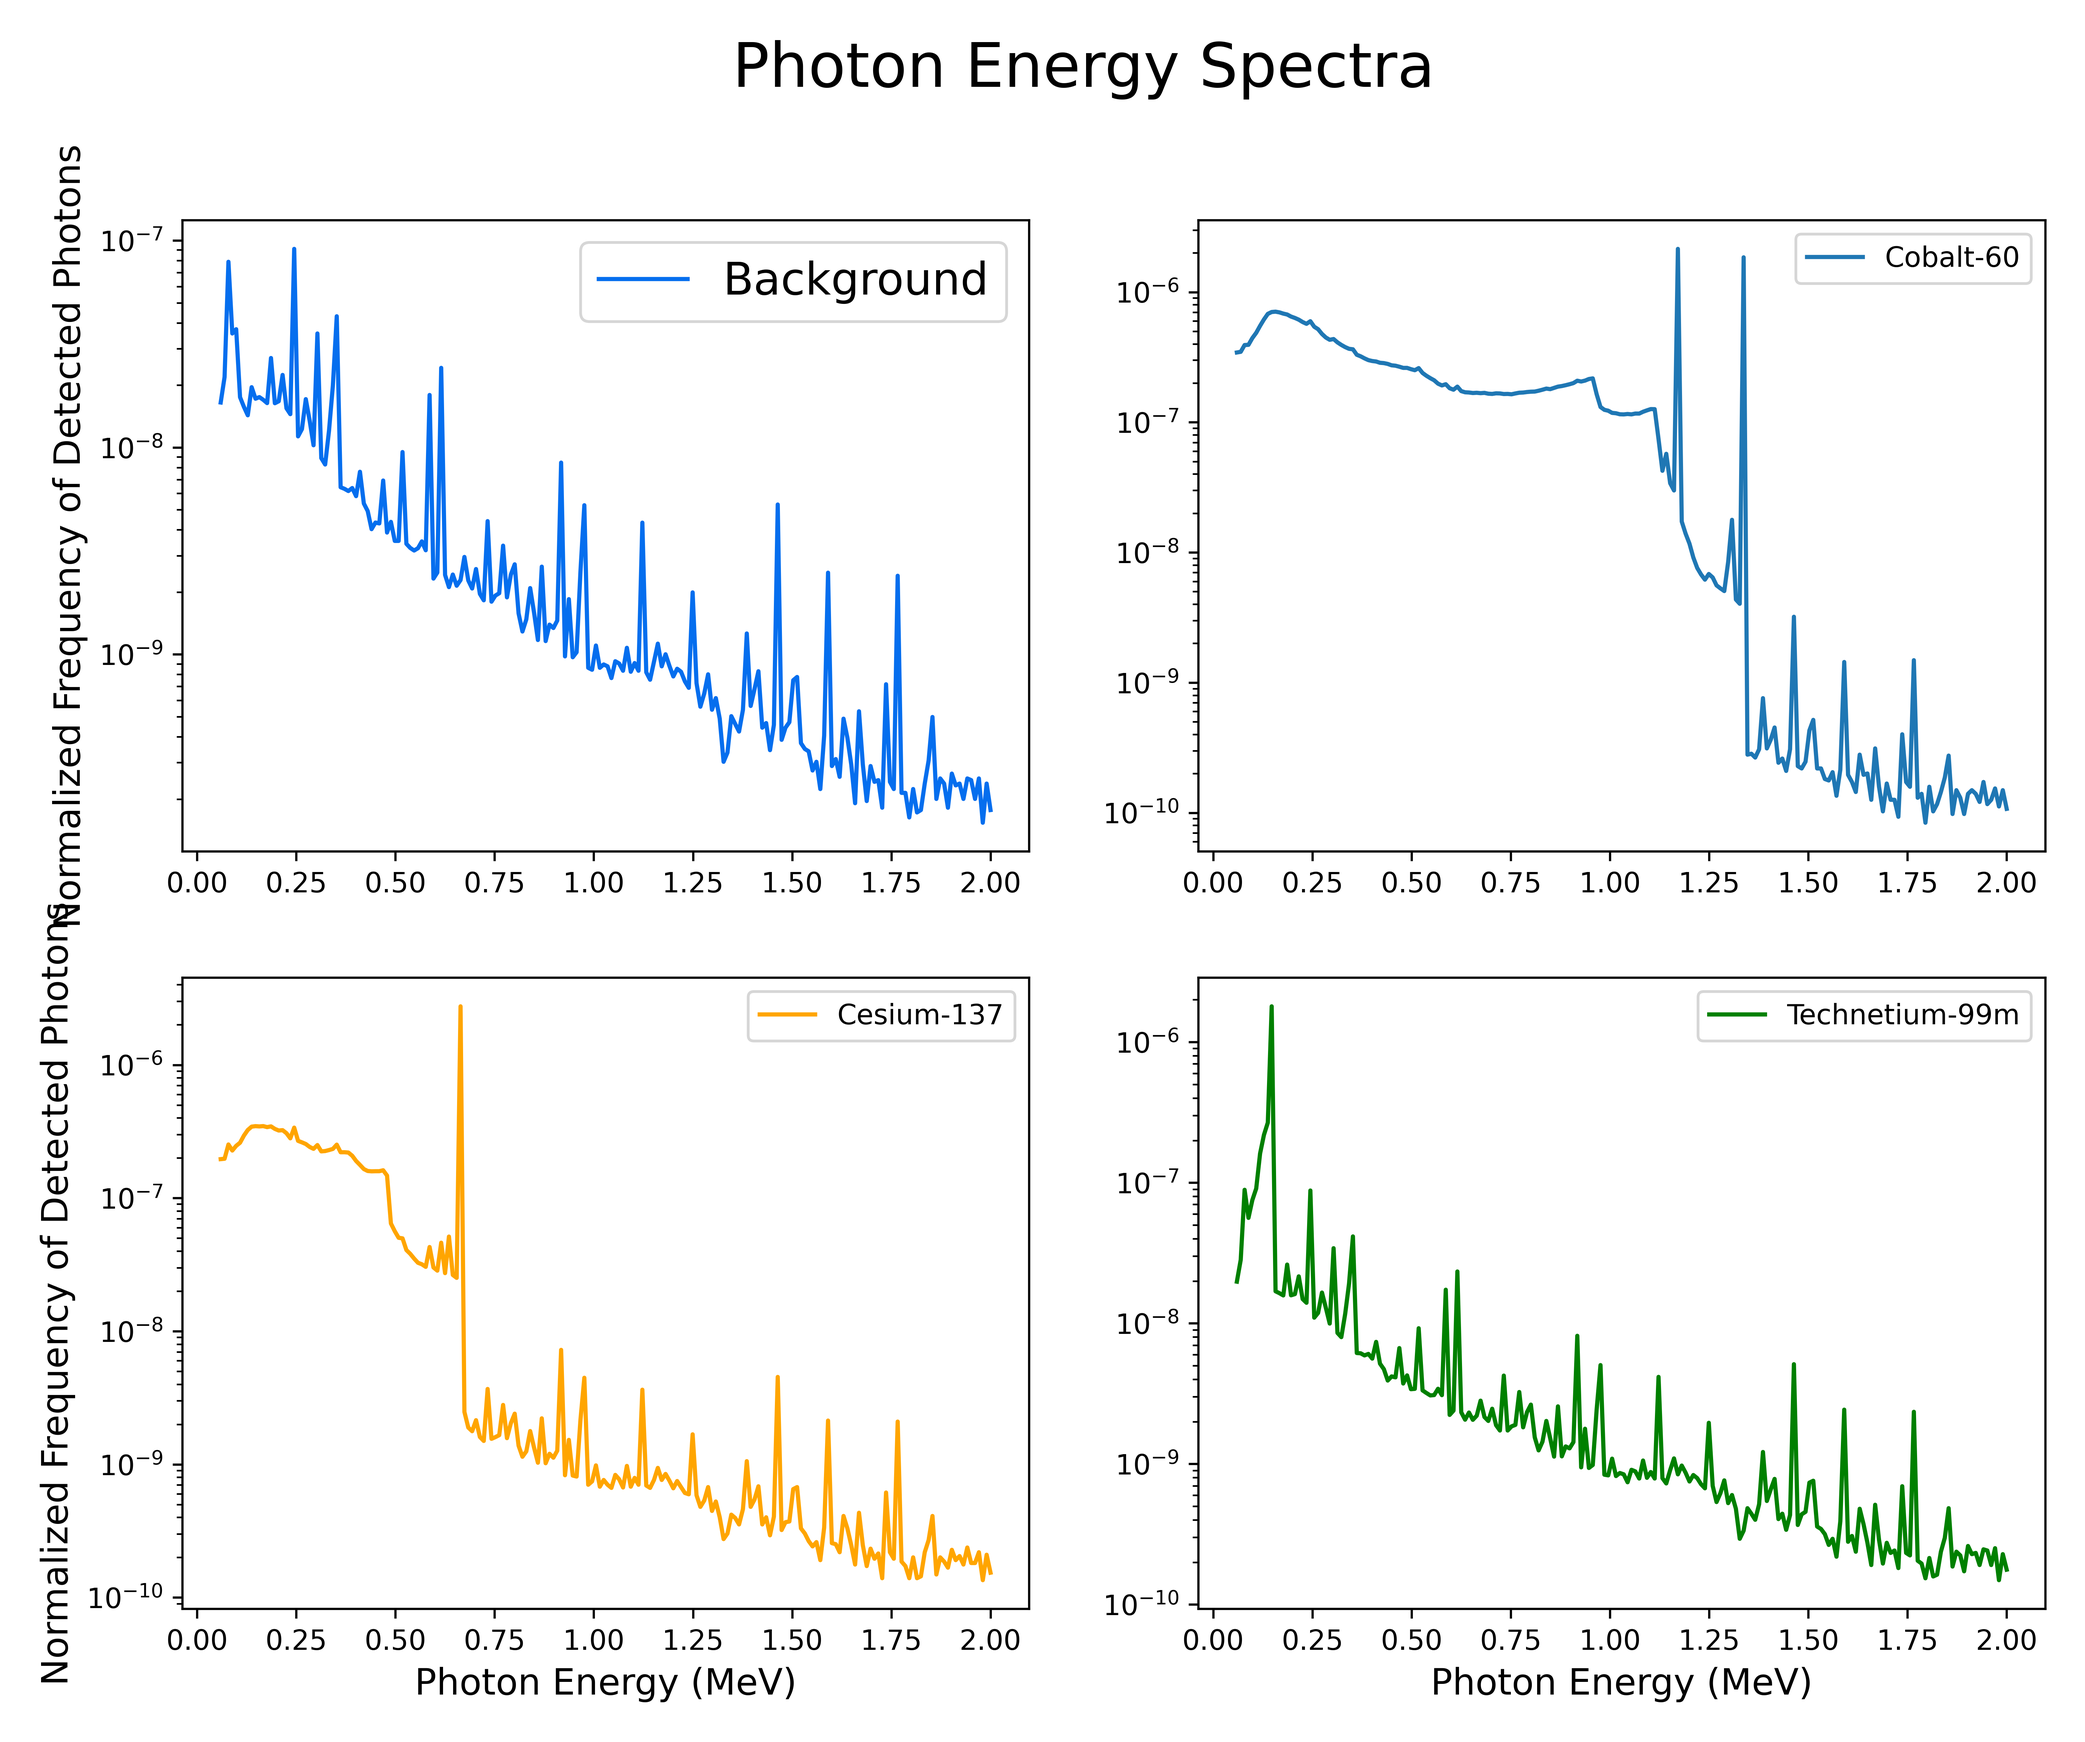
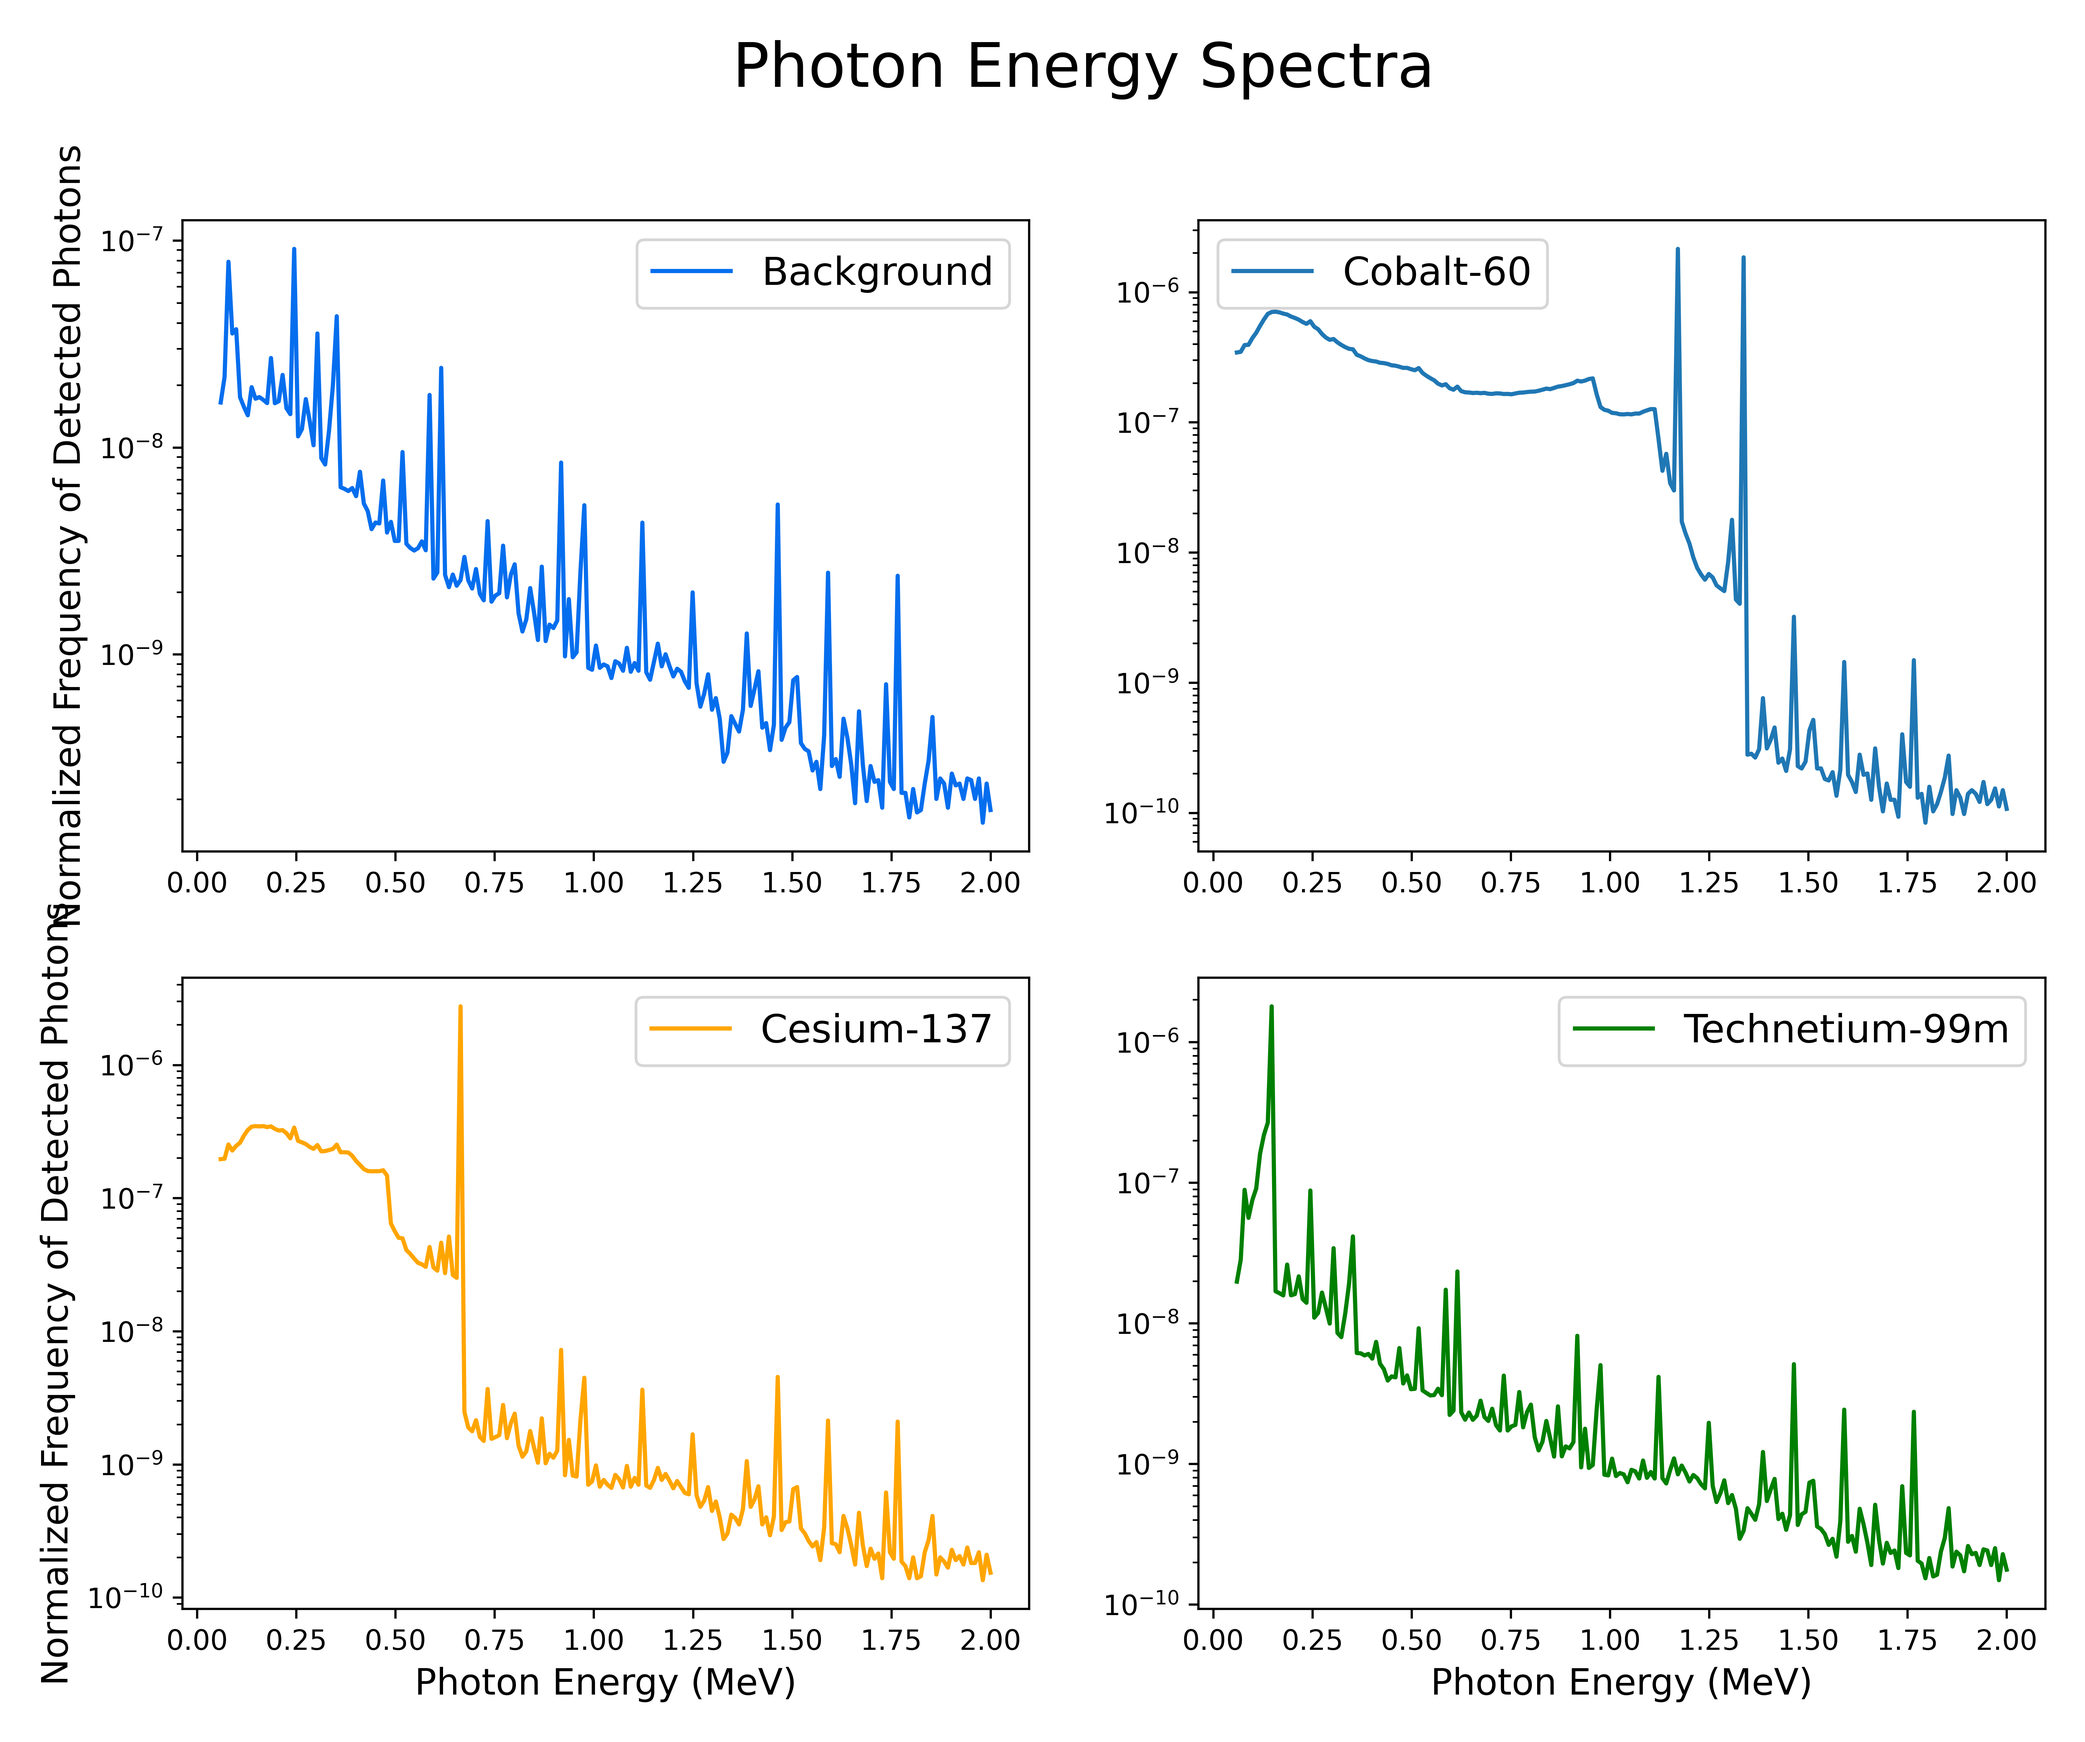
Made pretty graphs for report draft 2

diff --git a/coolSubplots.py b/coolSubplots.py
@@ -157,7 +157,7 @@ plt.ylabel('Normalized Frequency of Detected Photons', fontsize=13)
 # plt.title(' ', fontsize=40)
 plt.plot(SpectraMatrix.iloc[:, thecenters[0]], label=f'Background', color='xkcd:cerulean blue')
 plt.yscale('log')
-plt.legend(fontsize=16)
+plt.legend(fontsize=14)
 
 plt.subplot(2, 2, 2)
 # plt.xlabel('Photon Energy (MeV)', fontsize=13)
@@ -165,7 +165,7 @@ plt.subplot(2, 2, 2)
 # plt.title(' ', fontsize=40)
 plt.plot(SpectraMatrix.iloc[:, thecenters[1]], label=f'Cobalt-60')
 plt.yscale('log')
-plt.legend()
+plt.legend(fontsize=14)
 
 plt.subplot(2, 2, 3)
 plt.xlabel('Photon Energy (MeV)', fontsize=13)
@@ -173,7 +173,7 @@ plt.ylabel('Normalized Frequency of Detected Photons', fontsize=13)
 # plt.title('W Matrix Column 3', fontsize=15)
 plt.plot(SpectraMatrix.iloc[:, thecenters[2]], label=f'Cesium-137', color='orange')
 plt.yscale('log')
-plt.legend()
+plt.legend(fontsize=14)
 
 plt.subplot(2, 2, 4)
 plt.xlabel('Photon Energy (MeV)', fontsize=13)
@@ -181,7 +181,7 @@ plt.xlabel('Photon Energy (MeV)', fontsize=13)
 # plt.title('W Matrix Column 4', fontsize=15)
 plt.plot(SpectraMatrix.iloc[:, thecenters[3]], label=f'Technetium-99m', color='green')
 plt.yscale('log')
-plt.legend()
+plt.legend(fontsize=14)
 
 # th.saveThisGraph('images/subplots/theSpectra.png')
 plt.show()
